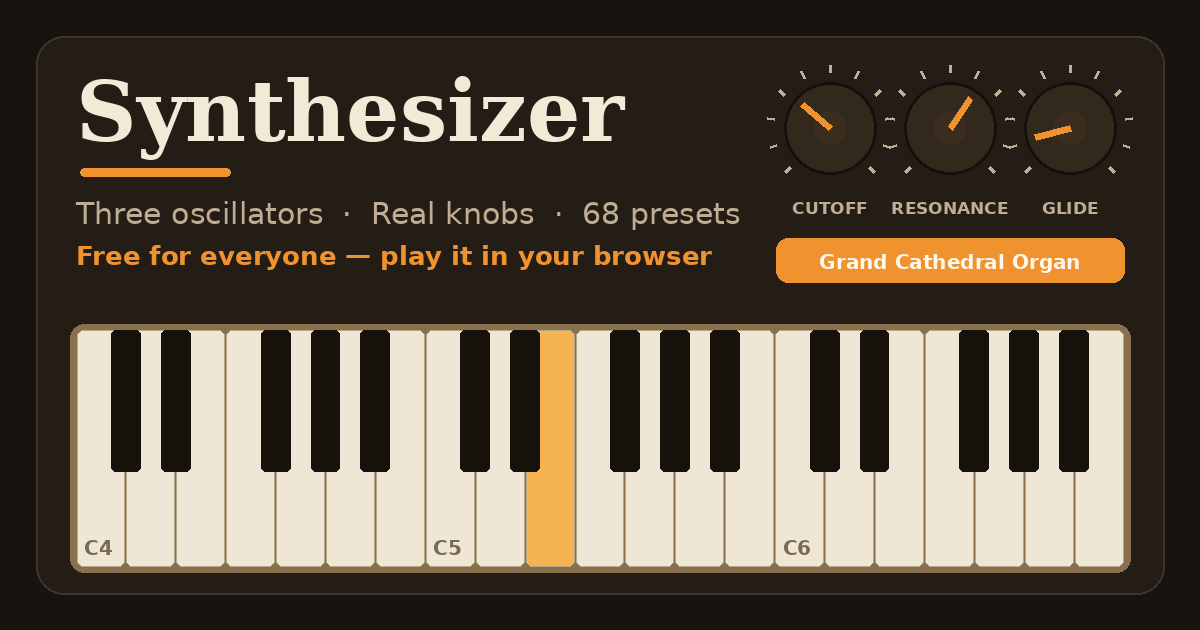
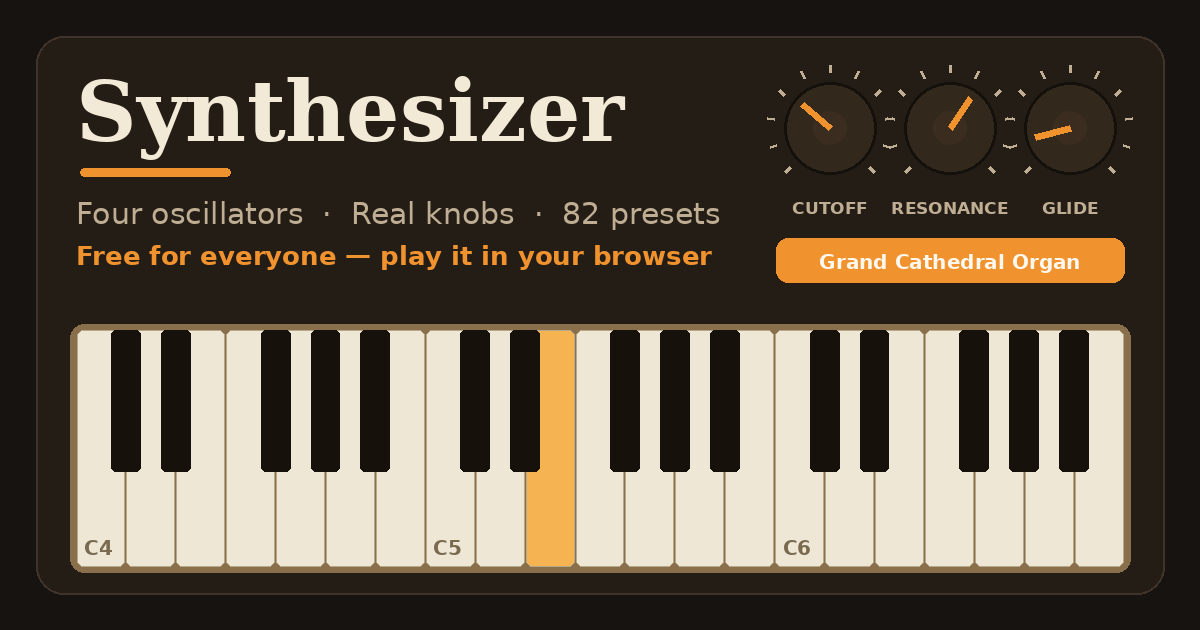
Synthesizer — corrected share image and descriptions

Changed region(s): [[0.0617, 0.3016, 0.6167, 0.3619]]

diff --git a/index.html b/index.html
@@ -10,21 +10,21 @@
     <meta name="apple-mobile-web-app-capable" content="yes" />
     <meta name="apple-mobile-web-app-status-bar-style" content="black-translucent" />
     <meta name="apple-mobile-web-app-title" content="Synthesizer" />
-    <meta name="app-version" content="2026-11-09.2" />
+    <meta name="app-version" content="2026-11-09.3" />
     <link rel="apple-touch-icon" href="assets/apple-touch-icon.png" />
     <link rel="icon" href="data:," />
-    <meta name="description" content="A playable keyboard synthesizer in your browser — three oscillators, real knobs, 82 presets, and a landscape performance mode where the keys fill the screen. Free for everyone." />
+    <meta name="description" content="A playable keyboard synthesizer in your browser — four oscillators, real knobs, 82 presets, and a landscape performance mode where the keys fill the screen. Free for everyone." />
     <meta property="og:type" content="website" />
     <meta property="og:url" content="https://jesuslovestyler.github.io/Synthesizer/" />
     <meta property="og:title" content="Synthesizer" />
-    <meta property="og:description" content="A playable keyboard synthesizer in your browser — three oscillators, real knobs, 82 presets, and a landscape performance mode where the keys fill the screen. Free for everyone." />
+    <meta property="og:description" content="A playable keyboard synthesizer in your browser — four oscillators, real knobs, 82 presets, and a landscape performance mode where the keys fill the screen. Free for everyone." />
     <meta property="og:image" content="https://jesuslovestyler.github.io/Synthesizer/og-image.png" />
     <meta property="og:image:width" content="1200" />
     <meta property="og:image:height" content="630" />
     <meta property="og:image:type" content="image/png" />
     <meta name="twitter:card" content="summary_large_image" />
     <meta name="twitter:title" content="Synthesizer" />
-    <meta name="twitter:description" content="A playable keyboard synthesizer in your browser — three oscillators, real knobs, 82 presets, and a landscape performance mode where the keys fill the screen. Free for everyone." />
+    <meta name="twitter:description" content="A playable keyboard synthesizer in your browser — four oscillators, real knobs, 82 presets, and a landscape performance mode where the keys fill the screen. Free for everyone." />
     <meta name="twitter:image" content="https://jesuslovestyler.github.io/Synthesizer/og-image.png" />
     <title>Synthesizer</title>
     <style>
